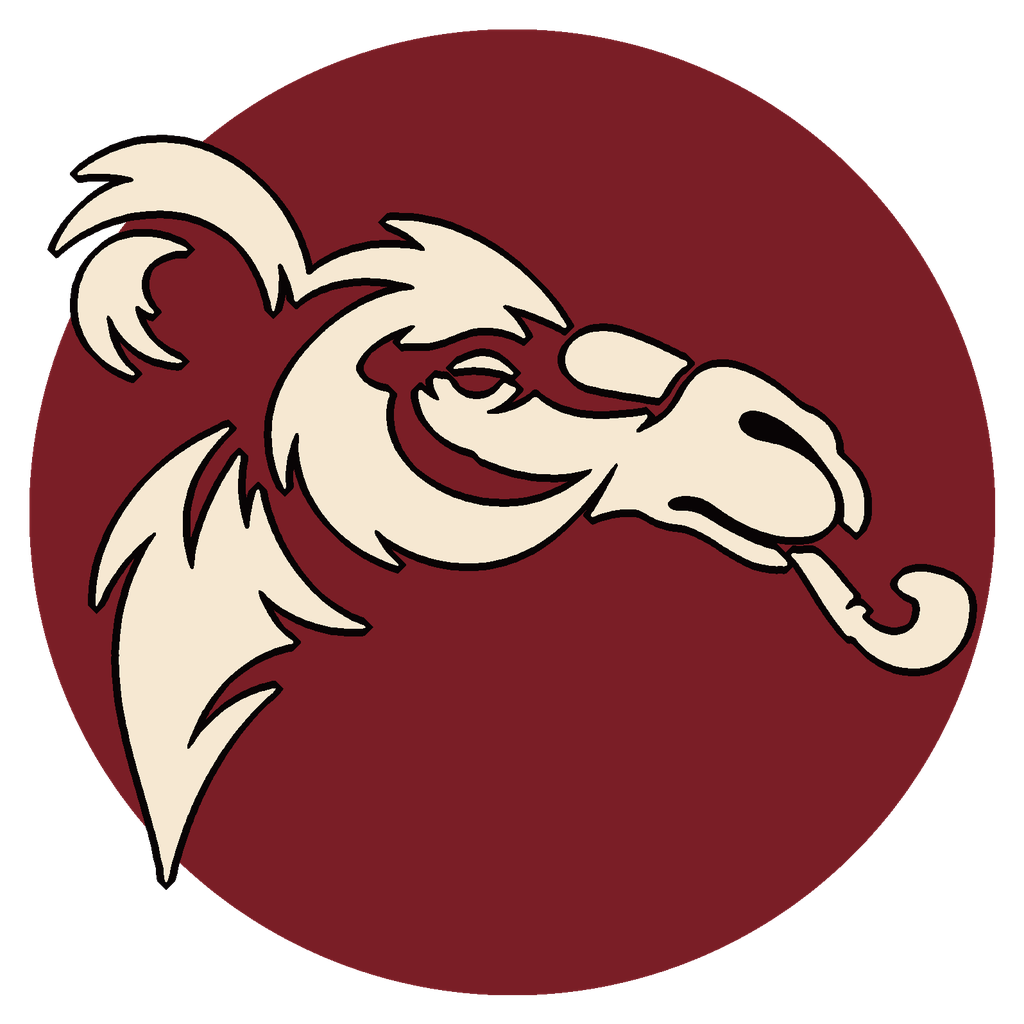
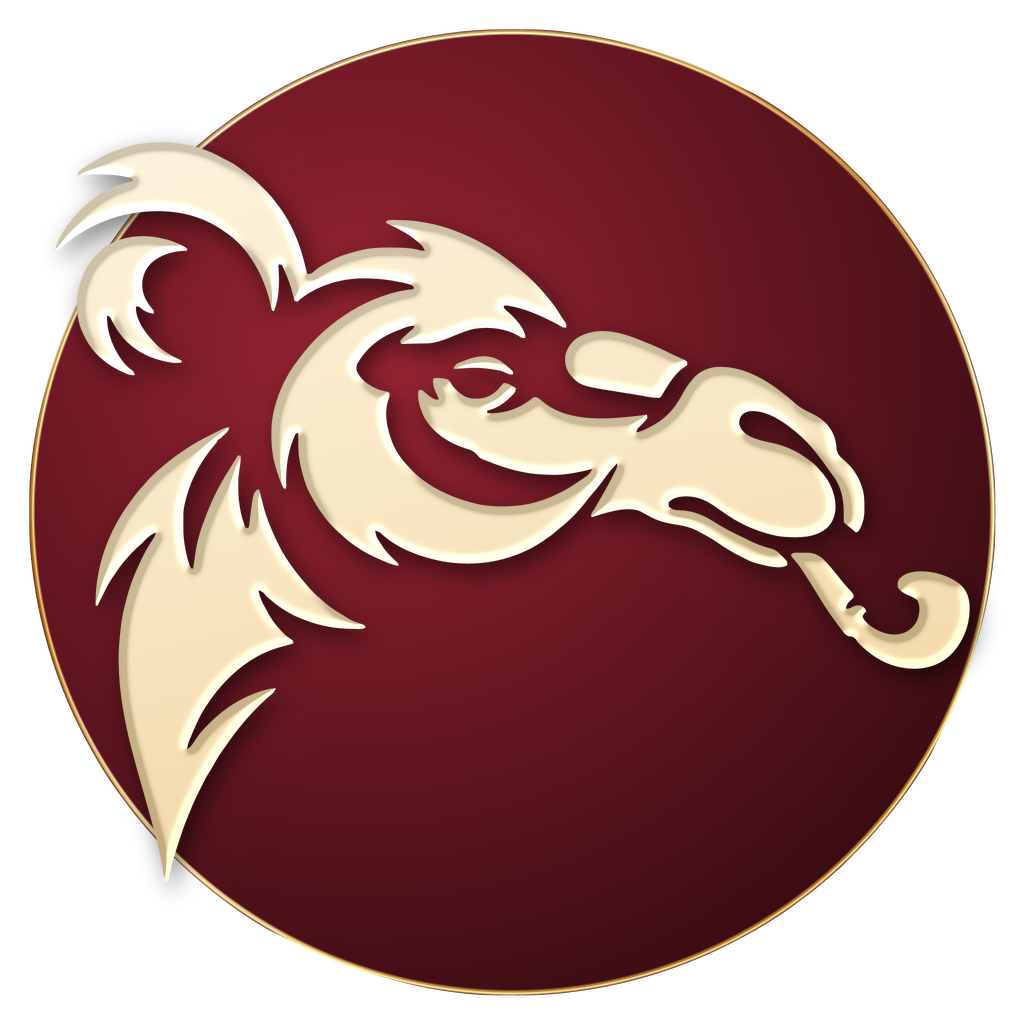
Новый логотип без контуров, аватарки и быстрая анкета персонала
Логотип, эмблема, favicon, аватарки бота и вебхуков и баннер собираются
из векторных слоёв в brand/build_brand.py: верблюд без чёрных контуров,
надпись в золотом металле. Картинки с версией, чтобы кэш не держал
старые.

Анкета персонала открывается без View Transition: снимок страницы
закрывал окно на время анимации.

diff --git a/public/index.html b/public/index.html
@@ -6,8 +6,8 @@
 <title>Mile High Club</title>
 <meta name="description" content="Отель Mile High Club в Лос-Сантосе: бронь номеров, бассейны, Le Ciel, сигарный клуб и журнал.">
 <meta name="theme-color" content="#0D0809">
-<link rel="icon" href="img/favicon.png">
-<link rel="apple-touch-icon" href="img/apple-touch-icon.png">
+<link rel="icon" href="img/favicon.png?v=2">
+<link rel="apple-touch-icon" href="img/apple-touch-icon.png?v=2">
 <link rel="preconnect" href="https://fonts.googleapis.com">
 <link rel="preconnect" href="https://fonts.gstatic.com" crossorigin>
 <link rel="stylesheet" href="https://fonts.googleapis.com/css2?family=Unbounded:wght@600;700;800&family=Onest:wght@400;600;700;800&family=Cormorant+Garamond:ital,wght@0,700;1,500;1,600&display=swap">
@@ -16,7 +16,7 @@
 </head>
 <body>
 <script>try{if(sessionStorage.getItem("mhc-seen")==="1")document.documentElement.classList.add("seen")}catch(e){}</script>
-<div class="loader" id="loader" aria-label="Загрузка"><i class="ld-door l"></i><i class="ld-door r"></i><div class="ld-in"><svg class="ld-dial" viewBox="-8 -12 216 124" aria-hidden="true"><defs><linearGradient id="ldb" x1="0" x2="1"><stop offset="0" stop-color="#8a6228"/><stop offset=".5" stop-color="#f9edc7"/><stop offset="1" stop-color="#8a6228"/></linearGradient></defs><path d="M14 104 A86 86 0 0 1 186 104" fill="none" stroke="url(#ldb)" stroke-width="2.4"/><line x1="24.8" y1="76.6" x2="34.2" y2="80.1" stroke="rgba(249,237,199,0.7)" stroke-width="1.6"/><text x="10.7" y="74.5" text-anchor="middle">1</text><line x1="26.7" y1="72.0" x2="31.3" y2="74.0" stroke="rgba(249,237,199,0.3)" stroke-width="1"/><line x1="28.8" y1="67.5" x2="33.3" y2="69.7" stroke="rgba(249,237,199,0.3)" stroke-width="1"/><line x1="31.3" y1="63.1" x2="35.6" y2="65.6" stroke="rgba(249,237,199,0.3)" stroke-width="1"/><line x1="34.0" y1="58.8" x2="38.1" y2="61.7" stroke="rgba(249,237,199,0.3)" stroke-width="1"/><line x1="36.9" y1="54.8" x2="40.9" y2="57.9" stroke="rgba(249,237,199,0.3)" stroke-width="1"/><line x1="40.1" y1="51.0" x2="43.9" y2="54.3" stroke="rgba(249,237,199,0.3)" stroke-width="1"/><line x1="43.6" y1="47.3" x2="47.1" y2="50.8" stroke="rgba(249,237,199,0.3)" stroke-width="1"/><line x1="47.2" y1="43.9" x2="50.5" y2="47.6" stroke="rgba(249,237,199,0.3)" stroke-width="1"/><line x1="51.1" y1="40.7" x2="57.2" y2="48.6" stroke="rgba(249,237,199,0.7)" stroke-width="1.6"/><text x="41.9" y="31.8" text-anchor="middle">10</text><line x1="55.1" y1="37.8" x2="57.9" y2="41.9" stroke="rgba(249,237,199,0.3)" stroke-width="1"/><line x1="59.4" y1="35.1" x2="61.9" y2="39.4" stroke="rgba(249,237,199,0.3)" stroke-width="1"/><line x1="63.8" y1="32.7" x2="66.0" y2="37.1" stroke="rgba(249,237,199,0.3)" stroke-width="1"/><line x1="68.3" y1="30.5" x2="70.3" y2="35.1" stroke="rgba(249,237,199,0.3)" stroke-width="1"/><line x1="73.0" y1="28.7" x2="74.7" y2="33.4" stroke="rgba(249,237,199,0.3)" stroke-width="1"/><line x1="77.7" y1="27.2" x2="79.1" y2="32.0" stroke="rgba(249,237,199,0.3)" stroke-width="1"/><line x1="82.6" y1="25.9" x2="83.7" y2="30.8" stroke="rgba(249,237,199,0.3)" stroke-width="1"/><line x1="87.5" y1="25.0" x2="88.3" y2="29.9" stroke="rgba(249,237,199,0.3)" stroke-width="1"/><line x1="92.5" y1="24.4" x2="93.0" y2="29.3" stroke="rgba(249,237,199,0.3)" stroke-width="1"/><line x1="97.5" y1="24.0" x2="97.8" y2="34.0" stroke="rgba(249,237,199,0.7)" stroke-width="1.6"/><text x="97.0" y="12.0" text-anchor="middle">20</text><line x1="102.5" y1="24.0" x2="102.3" y2="29.0" stroke="rgba(249,237,199,0.3)" stroke-width="1"/><line x1="107.5" y1="24.4" x2="107.0" y2="29.3" stroke="rgba(249,237,199,0.3)" stroke-width="1"/><line x1="112.5" y1="25.0" x2="111.7" y2="29.9" stroke="rgba(249,237,199,0.3)" stroke-width="1"/><line x1="117.4" y1="25.9" x2="116.3" y2="30.8" stroke="rgba(249,237,199,0.3)" stroke-width="1"/><line x1="122.3" y1="27.2" x2="120.9" y2="32.0" stroke="rgba(249,237,199,0.3)" stroke-width="1"/><line x1="127.0" y1="28.7" x2="125.3" y2="33.4" stroke="rgba(249,237,199,0.3)" stroke-width="1"/><line x1="131.7" y1="30.5" x2="129.7" y2="35.1" stroke="rgba(249,237,199,0.3)" stroke-width="1"/><line x1="136.2" y1="32.7" x2="134.0" y2="37.1" stroke="rgba(249,237,199,0.3)" stroke-width="1"/><line x1="140.6" y1="35.1" x2="138.1" y2="39.4" stroke="rgba(249,237,199,0.3)" stroke-width="1"/><line x1="144.9" y1="37.8" x2="139.2" y2="46.0" stroke="rgba(249,237,199,0.7)" stroke-width="1.6"/><text x="153.3" y="28.3" text-anchor="middle">30</text><line x1="148.9" y1="40.7" x2="145.9" y2="44.7" stroke="rgba(249,237,199,0.3)" stroke-width="1"/><line x1="152.8" y1="43.9" x2="149.5" y2="47.6" stroke="rgba(249,237,199,0.3)" stroke-width="1"/><line x1="156.4" y1="47.3" x2="152.9" y2="50.8" stroke="rgba(249,237,199,0.3)" stroke-width="1"/><line x1="159.9" y1="51.0" x2="156.1" y2="54.3" stroke="rgba(249,237,199,0.3)" stroke-width="1"/><line x1="163.1" y1="54.8" x2="159.1" y2="57.9" stroke="rgba(249,237,199,0.3)" stroke-width="1"/><line x1="166.0" y1="58.8" x2="161.9" y2="61.7" stroke="rgba(249,237,199,0.3)" stroke-width="1"/><line x1="168.7" y1="63.1" x2="164.4" y2="65.6" stroke="rgba(249,237,199,0.3)" stroke-width="1"/><line x1="171.2" y1="67.5" x2="166.7" y2="69.7" stroke="rgba(249,237,199,0.3)" stroke-width="1"/><line x1="173.3" y1="72.0" x2="168.7" y2="74.0" stroke="rgba(249,237,199,0.3)" stroke-width="1"/><line x1="175.2" y1="76.6" x2="165.8" y2="80.1" stroke="rgba(249,237,199,0.7)" stroke-width="1.6"/><text x="189.3" y="74.5" text-anchor="middle">40</text><g class="ld-needle" id="ldNeedle"><path d="M100 104 L98 30 L100 18 L102 30 Z" fill="url(#ldb)"/><circle cx="100" cy="104" r="7.5" fill="url(#ldb)"/><circle cx="100" cy="104" r="2.6" fill="#0d0809"/></g></svg><img class="ld-logo" src="img/logo.webp" alt="" width="160" height="160"><div class="ld-cap"><span>Лифт поднимается</span><b class="num" id="ldPct">1</b><span>этаж</span></div></div></div>
+<div class="loader" id="loader" aria-label="Загрузка"><i class="ld-door l"></i><i class="ld-door r"></i><div class="ld-in"><svg class="ld-dial" viewBox="-8 -12 216 124" aria-hidden="true"><defs><linearGradient id="ldb" x1="0" x2="1"><stop offset="0" stop-color="#8a6228"/><stop offset=".5" stop-color="#f9edc7"/><stop offset="1" stop-color="#8a6228"/></linearGradient></defs><path d="M14 104 A86 86 0 0 1 186 104" fill="none" stroke="url(#ldb)" stroke-width="2.4"/><line x1="24.8" y1="76.6" x2="34.2" y2="80.1" stroke="rgba(249,237,199,0.7)" stroke-width="1.6"/><text x="10.7" y="74.5" text-anchor="middle">1</text><line x1="26.7" y1="72.0" x2="31.3" y2="74.0" stroke="rgba(249,237,199,0.3)" stroke-width="1"/><line x1="28.8" y1="67.5" x2="33.3" y2="69.7" stroke="rgba(249,237,199,0.3)" stroke-width="1"/><line x1="31.3" y1="63.1" x2="35.6" y2="65.6" stroke="rgba(249,237,199,0.3)" stroke-width="1"/><line x1="34.0" y1="58.8" x2="38.1" y2="61.7" stroke="rgba(249,237,199,0.3)" stroke-width="1"/><line x1="36.9" y1="54.8" x2="40.9" y2="57.9" stroke="rgba(249,237,199,0.3)" stroke-width="1"/><line x1="40.1" y1="51.0" x2="43.9" y2="54.3" stroke="rgba(249,237,199,0.3)" stroke-width="1"/><line x1="43.6" y1="47.3" x2="47.1" y2="50.8" stroke="rgba(249,237,199,0.3)" stroke-width="1"/><line x1="47.2" y1="43.9" x2="50.5" y2="47.6" stroke="rgba(249,237,199,0.3)" stroke-width="1"/><line x1="51.1" y1="40.7" x2="57.2" y2="48.6" stroke="rgba(249,237,199,0.7)" stroke-width="1.6"/><text x="41.9" y="31.8" text-anchor="middle">10</text><line x1="55.1" y1="37.8" x2="57.9" y2="41.9" stroke="rgba(249,237,199,0.3)" stroke-width="1"/><line x1="59.4" y1="35.1" x2="61.9" y2="39.4" stroke="rgba(249,237,199,0.3)" stroke-width="1"/><line x1="63.8" y1="32.7" x2="66.0" y2="37.1" stroke="rgba(249,237,199,0.3)" stroke-width="1"/><line x1="68.3" y1="30.5" x2="70.3" y2="35.1" stroke="rgba(249,237,199,0.3)" stroke-width="1"/><line x1="73.0" y1="28.7" x2="74.7" y2="33.4" stroke="rgba(249,237,199,0.3)" stroke-width="1"/><line x1="77.7" y1="27.2" x2="79.1" y2="32.0" stroke="rgba(249,237,199,0.3)" stroke-width="1"/><line x1="82.6" y1="25.9" x2="83.7" y2="30.8" stroke="rgba(249,237,199,0.3)" stroke-width="1"/><line x1="87.5" y1="25.0" x2="88.3" y2="29.9" stroke="rgba(249,237,199,0.3)" stroke-width="1"/><line x1="92.5" y1="24.4" x2="93.0" y2="29.3" stroke="rgba(249,237,199,0.3)" stroke-width="1"/><line x1="97.5" y1="24.0" x2="97.8" y2="34.0" stroke="rgba(249,237,199,0.7)" stroke-width="1.6"/><text x="97.0" y="12.0" text-anchor="middle">20</text><line x1="102.5" y1="24.0" x2="102.3" y2="29.0" stroke="rgba(249,237,199,0.3)" stroke-width="1"/><line x1="107.5" y1="24.4" x2="107.0" y2="29.3" stroke="rgba(249,237,199,0.3)" stroke-width="1"/><line x1="112.5" y1="25.0" x2="111.7" y2="29.9" stroke="rgba(249,237,199,0.3)" stroke-width="1"/><line x1="117.4" y1="25.9" x2="116.3" y2="30.8" stroke="rgba(249,237,199,0.3)" stroke-width="1"/><line x1="122.3" y1="27.2" x2="120.9" y2="32.0" stroke="rgba(249,237,199,0.3)" stroke-width="1"/><line x1="127.0" y1="28.7" x2="125.3" y2="33.4" stroke="rgba(249,237,199,0.3)" stroke-width="1"/><line x1="131.7" y1="30.5" x2="129.7" y2="35.1" stroke="rgba(249,237,199,0.3)" stroke-width="1"/><line x1="136.2" y1="32.7" x2="134.0" y2="37.1" stroke="rgba(249,237,199,0.3)" stroke-width="1"/><line x1="140.6" y1="35.1" x2="138.1" y2="39.4" stroke="rgba(249,237,199,0.3)" stroke-width="1"/><line x1="144.9" y1="37.8" x2="139.2" y2="46.0" stroke="rgba(249,237,199,0.7)" stroke-width="1.6"/><text x="153.3" y="28.3" text-anchor="middle">30</text><line x1="148.9" y1="40.7" x2="145.9" y2="44.7" stroke="rgba(249,237,199,0.3)" stroke-width="1"/><line x1="152.8" y1="43.9" x2="149.5" y2="47.6" stroke="rgba(249,237,199,0.3)" stroke-width="1"/><line x1="156.4" y1="47.3" x2="152.9" y2="50.8" stroke="rgba(249,237,199,0.3)" stroke-width="1"/><line x1="159.9" y1="51.0" x2="156.1" y2="54.3" stroke="rgba(249,237,199,0.3)" stroke-width="1"/><line x1="163.1" y1="54.8" x2="159.1" y2="57.9" stroke="rgba(249,237,199,0.3)" stroke-width="1"/><line x1="166.0" y1="58.8" x2="161.9" y2="61.7" stroke="rgba(249,237,199,0.3)" stroke-width="1"/><line x1="168.7" y1="63.1" x2="164.4" y2="65.6" stroke="rgba(249,237,199,0.3)" stroke-width="1"/><line x1="171.2" y1="67.5" x2="166.7" y2="69.7" stroke="rgba(249,237,199,0.3)" stroke-width="1"/><line x1="173.3" y1="72.0" x2="168.7" y2="74.0" stroke="rgba(249,237,199,0.3)" stroke-width="1"/><line x1="175.2" y1="76.6" x2="165.8" y2="80.1" stroke="rgba(249,237,199,0.7)" stroke-width="1.6"/><text x="189.3" y="74.5" text-anchor="middle">40</text><g class="ld-needle" id="ldNeedle"><path d="M100 104 L98 30 L100 18 L102 30 Z" fill="url(#ldb)"/><circle cx="100" cy="104" r="7.5" fill="url(#ldb)"/><circle cx="100" cy="104" r="2.6" fill="#0d0809"/></g></svg><img class="ld-logo" src="img/logo.webp?v=2" alt="" width="160" height="160"><div class="ld-cap"><span>Лифт поднимается</span><b class="num" id="ldPct">1</b><span>этаж</span></div></div></div>
 <div class="scrollbar" id="scrollbar"></div>
 <div id="app"></div>
 <div id="toasts" class="toasts" aria-live="polite"></div>

diff --git a/public/js/main.js b/public/js/main.js
@@ -16,7 +16,7 @@ function shell() {
   $('#app').innerHTML = `
   <canvas class="wxbg" id="wxBg" aria-hidden="true"></canvas>
   <header class="nav"><div class="garland" aria-hidden="true">${Array.from({ length: 34 }, (_, i) => `<i style="--i:${i}"></i>`).join('')}</div><div class="wrap">
-    <a class="brand" href="#home" aria-label="На главную"><img src="img/emblem.webp" alt="" width="42" height="42"><b>MILE HIGH<br>CLUB</b></a>
+    <a class="brand" href="#home" aria-label="На главную"><img src="img/emblem.webp?v=2" alt="" width="42" height="42"><b>MILE HIGH<br>CLUB</b></a>
     <nav class="links" aria-label="Разделы">${ROUTES.map(([id, n]) => `<a href="#${id}" data-r="${id}"><span class="rl"><span data-t="${n}">${n}</span></span></a>`).join('')}</nav>
     <div class="navr">
       <span class="pill wxp" id="wxChip" title="Погода и время над отелем (Москва)"></span>
@@ -184,7 +184,7 @@ function renderHome() {
   const heroHtml = `
   <section class="dive" id="dive"><div class="stick">
     <div class="bg" style="background-image:url('${esc(m === 'day' ? s.heroDay : s.heroNight)}')"></div><canvas id="heroGl" aria-hidden="true"></canvas><canvas class="wxc" id="heroWx" aria-hidden="true"></canvas>
-    <div class="wrap dv dv1" id="dv1"><img class="logo" id="heroLogo" src="img/logo.webp" alt="${esc(s.hotelName)}" width="300" height="300">
+    <div class="wrap dv dv1" id="dv1"><img class="logo" id="heroLogo" src="img/logo.webp?v=2" alt="${esc(s.hotelName)}" width="300" height="300">
       <h1>${nowrapHyphens(esc(s.tagline || 'Отель над Лос-Сантосом'))}. <span class="serif">${m === 'day' ? 'Бассейн, диджей и обед на высоте.' : 'Ночь только начинается.'}</span></h1>
       <div class="row"><a class="btn" href="#stay">Забронировать номер</a><a class="btn ghost" href="#leisure">Что сейчас открыто</a></div></div>
     <div class="wrap dv dv2" id="dv2"><span class="eyebrow">Вы в атриуме</span><h2>Сорок этажей стекла, латуни и неона</h2><p>Лифт поднимет в номера с 20 этажа, бассейны ждут на 38 и 40, Le Ciel на 30.</p><div class="row"><a class="btn" href="#stay">Выбрать номер</a><a class="btn ghost" href="#cigars">Сигарный клуб</a></div></div>
@@ -388,7 +388,7 @@ function paintCompare() {
 }
 function keyCard(r, t) {
   return `<div class="kc" id="keyCard" tabindex="0" role="button" aria-label="Ключ-карта номера ${esc(r.id)}, нажмите, чтобы перевернуть"><div class="kci">
-    <div class="kf"><img src="img/emblem.webp" alt=""><span class="kn num">${esc(r.id)}</span><span class="kt">${esc(t?.name || 'Номер')} · ${r.floor} этаж</span><span class="kl">MILE HIGH CLUB · ROOM KEY</span><i class="chip2"></i></div>
+    <div class="kf"><img src="img/emblem.webp?v=2" alt=""><span class="kn num">${esc(r.id)}</span><span class="kt">${esc(t?.name || 'Номер')} · ${r.floor} этаж</span><span class="kl">MILE HIGH CLUB · ROOM KEY</span><i class="chip2"></i></div>
     <div class="kb"><i class="stripe"></i><span>Заезд с 14:00 · Выезд до 12:00</span><span>Приложите к замку двери ${esc(r.id)}</span><small>При потере обратитесь на ресепшен, 20 этаж</small></div></div></div>`;
 }
 function wireKeyCard() {
@@ -703,16 +703,8 @@ function paintTeam() {
   $$('#teamV [data-t]').forEach(b => b.onclick = () => openMember(all.find(t => t.id === b.dataset.t)));
 }
 const seenTeam = new Set();
-// фото с карточки «перетекает» в окно анкеты (View Transitions); без поддержки — обычное открытие
+// Анкета открывается сразу. View Transition здесь держал снимок страницы поверх окна на всё время анимации.
 function openMember(t) {
-  const card = t && $(`#teamV .tcard[data-t="${CSS.escape(t.id)}"] .tph`);
-  if (!VT || !card || matchMedia('(prefers-reduced-motion: reduce)').matches) return openMemberNow(t);
-  card.style.viewTransitionName = 'member-photo';
-  const vt = document.startViewTransition(() => { card.style.viewTransitionName = ''; openMemberNow(t); const ph = $('.modal .member .tph'); if (ph) ph.style.viewTransitionName = 'member-photo'; });
-  vt.ready.catch(() => {}); vt.updateCallbackDone.catch(e => console.error(e));
-  vt.finished.finally(() => { card.style.viewTransitionName = ''; const ph = $('.modal .member .tph'); if (ph) ph.style.viewTransitionName = ''; });
-}
-function openMemberNow(t) {
   if (!t) return; seenTeam.add(t.id); if ((S.pub.team || []).length > 1 && S.pub.team.every(x => seenTeam.has(x.id))) setTimeout(() => unlock('team'), 600); const d = S.pub.depts.find(x => x.id === t.dept);
   modal(`<div class="member" style="--ac:${esc(d?.accent || '#F7B50A')}"><div class="tph ${t.photo ? '' : 'none'}" ${t.photo ? `style="background-image:url('${esc(t.photo)}')"` : ''}>${t.photo ? '' : `<b>${esc(initials(t.name))}</b>`}</div>
     <div class="stack"><div><span class="eyebrow">${esc(d?.name || 'Mile High Club')}</span><h3>${esc(t.name)}</h3><p class="mut">${esc(t.position || '')}</p></div>
@@ -822,7 +814,7 @@ function renderMe() {
 }
 export async function openLogin(next = 'admin') {
   authCfg = await authConfig();
-  modal(`<div class="stack" style="justify-items:center;text-align:center"><img src="img/logo.webp" alt="" width="90" height="90"><h3>Вход</h3><p class="mut">Персонал входит через Discord. Если у вас роль администратора или модератора на нашем сервере, откроется панель.</p>
+  modal(`<div class="stack" style="justify-items:center;text-align:center"><img src="img/logo.webp?v=2" alt="" width="90" height="90"><h3>Вход</h3><p class="mut">Персонал входит через Discord. Если у вас роль администратора или модератора на нашем сервере, откроется панель.</p>
     ${authCfg.oauth ? `<button class="btn discord" data-close="discord">${I.discord} Войти через Discord</button>` : ''}
     ${authCfg.demo ? `<div class="stack" style="width:100%"><span class="lbl">${authCfg.oauth ? 'Или демо-вход' : 'Демо-вход'}</span><div class="row" style="justify-content:center"><button class="btn sm" data-close="admin">Администратор</button><button class="btn sm ghost" data-close="mod">Модератор</button><button class="btn sm ghost" data-close="guest">Гость</button></div>${!authCfg.oauth ? '<p class="note">Вход через Discord включится, когда на сервере будут указаны ключи Discord-приложения.</p>' : ''}</div>` : ''}
     ${!authCfg.oauth && !authCfg.demo ? '<p class="note">Вход через Discord ещё не настроен на сервере.</p>' : ''}<button class="btn ghost sm" data-close="">Отмена</button></div>`).then(r => { if (!r) return; login(r === 'discord' ? 'admin' : r, next); });
@@ -832,7 +824,7 @@ export async function openLogin(next = 'admin') {
 function renderAdmin() {
   const v = view('admin');
   if (!S.me || S.me.role === 'guest') {
-    v.innerHTML = `<div class="gate"><img src="img/logo.webp" alt="" width="110" height="110"><h2 style="font-size:1.8rem">Вход для персонала</h2><p class="mut">${S.me ? `Вы вошли как ${esc(S.me.username)}, но у вас нет роли администратора или модератора на Discord-сервере отеля.` : 'Войдите через Discord. Доступ дают роли администратора и модератора на нашем сервере.'}</p><div class="row" style="justify-content:center">${S.me ? `<button class="btn ghost" id="gOut">${I.out} Выйти</button>` : ''}<button class="btn discord" id="gIn">${I.discord} Войти через Discord</button></div></div>`;
+    v.innerHTML = `<div class="gate"><img src="img/logo.webp?v=2" alt="" width="110" height="110"><h2 style="font-size:1.8rem">Вход для персонала</h2><p class="mut">${S.me ? `Вы вошли как ${esc(S.me.username)}, но у вас нет роли администратора или модератора на Discord-сервере отеля.` : 'Войдите через Discord. Доступ дают роли администратора и модератора на нашем сервере.'}</p><div class="row" style="justify-content:center">${S.me ? `<button class="btn ghost" id="gOut">${I.out} Выйти</button>` : ''}<button class="btn discord" id="gIn">${I.discord} Войти через Discord</button></div></div>`;
     $('#gIn').onclick = () => openLogin('admin'); $('#gOut') && ($('#gOut').onclick = () => logout()); return;
   }
   import('./admin.js').then(m => { mods.admin = m; m.mountAdmin(v, { reloadPublic: loadPublic, logout, openLogin }); }).catch(e => { console.error(e); v.innerHTML = '<div class="gate">Панель не загрузилась. Обновите страницу.</div>'; });
@@ -877,7 +869,7 @@ async function boot() {
     try { await Promise.all([loadPublic(), loadMe()]); } catch (e) { failed = e; return; }
     set(45);
     const s = S.pub.settings, m = mode(), hero = m === 'day' ? s.heroDay : s.heroNight;
-    let done = 0; const jobs = [document.fonts?.ready, preload('img/logo.webp'), preload(hero), heroLayers(hero)].map(p => Promise.resolve(p).catch(() => {}).then(() => set(45 + (++done / 4) * 50)));
+    let done = 0; const jobs = [document.fonts?.ready, preload('img/logo.webp?v=2'), preload(hero), heroLayers(hero)].map(p => Promise.resolve(p).catch(() => {}).then(() => set(45 + (++done / 4) * 50)));
     // 3D-модуль грузится параллельно и заставку не держит: атриум показывается картинкой и оживает, когда WebGL готов
     if (hasWebGL()) ((location.hash || '#home') === '#home' ? import('./hero3d.js') : import('three')).catch(() => {});
     await Promise.all(jobs);

diff --git a/public/css/app.css b/public/css/app.css
@@ -156,8 +156,8 @@ main{view-transition-name:floor}
 :root.vt-route::view-transition-new(floor){animation:floor-in var(--d-floor) var(--ease-in-out) both}
 :root:not(.vt-route)::view-transition-old(floor),:root:not(.vt-route)::view-transition-new(floor){animation:none}
 /* общий элемент: обложка журнала, фото сотрудника */
-::view-transition-group(issue-cover),::view-transition-group(member-photo){animation-duration:var(--d-panel);animation-timing-function:var(--ease-out)}
-::view-transition-old(issue-cover),::view-transition-new(issue-cover),::view-transition-old(member-photo),::view-transition-new(member-photo){height:100%;object-fit:cover}
+::view-transition-group(issue-cover){animation-duration:var(--d-panel);animation-timing-function:var(--ease-out)}
+::view-transition-old(issue-cover),::view-transition-new(issue-cover){height:100%;object-fit:cover}
 @keyframes floor-out{to{opacity:0;transform:translateY(var(--vt-out,14vh));filter:brightness(.4)}}
 @keyframes floor-in{from{opacity:0;transform:translateY(var(--vt-in,-14vh));filter:brightness(.4)}}
 :root[data-dir="down"]{--vt-out:-14vh;--vt-in:14vh}

diff --git a/brand/build_brand.py b/brand/build_brand.py
@@ -1,0 +1,166 @@
+#!/usr/bin/env python3
+"""Логотип и аватарки Mile High Club из векторных слоёв.
+
+Запуск из корня проекта:  python brand/build_brand.py
+Вход: brand/masks/{disc,camel,word}.png (слои emblem.svg и mhc-wordmark.svg, белое на прозрачном).
+Нужны: pillow, numpy, scipy.
+
+Верблюд без чёрных контуров: внутренние линии это просветы, через которые видно диск.
+"""
+from pathlib import Path
+
+import numpy as np
+from PIL import Image
+from scipy import ndimage as ndi
+
+ROOT = Path(__file__).resolve().parent.parent
+MASKS, BRAND, IMG = ROOT / 'brand' / 'masks', ROOT / 'brand', ROOT / 'public' / 'img'
+GOLD = ['#FFF3CF', '#F3D28C', '#C8953F', '#FBE3A6', '#E2B765', '#A87A32']
+CAMEL = ['#FFF8E7', '#F8E6C2', '#EBC98D']
+# цвет диска: светлая часть и тёмный край
+PERSONAS = {'concierge': ('#C98A1E', '#3A2404'), 'reception': ('#D3166C', '#3F0620'), 'manager': ('#D94E14', '#3E1404'), 'journal': ('#B9925A', '#30230F'),
+            'ciel': ('#A32A3A', '#2E0A10'), 'hot': ('#F0177A', '#42062A'), 'pools': ('#1E9C96', '#062C2C'), 'cigar': ('#7A4D2A', '#22130A'), 'security': ('#31507F', '#0C1626')}
+WINE = ('#9A2433', '#2A080D')
+
+
+def rgb(h): return np.array([int(h[i:i + 2], 16) for i in (1, 3, 5)], dtype=np.float32)
+
+
+def mask(name, size):
+    m = Image.open(MASKS / f'{name}.png').convert('RGBA').getchannel('A')
+    return np.asarray(m.resize((size, size), Image.LANCZOS), dtype=np.float32) / 255
+
+
+def ramp(t, stops):
+    """Значение 0..1 в цвет по равномерным опорным точкам."""
+    cols = np.stack([rgb(c) for c in stops]); x = np.clip(t, 0, 1) * (len(stops) - 1)
+    i = np.minimum(x.astype(int), len(stops) - 2); f = (x - i)[..., None]
+    return cols[i] * (1 - f) + cols[i + 1] * f
+
+
+def grid(n):
+    y, x = np.mgrid[0:n, 0:n].astype(np.float32) / (n - 1)
+    return x, y
+
+
+def over(dst, color, alpha):
+    a = alpha[..., None]
+    out_a = a + dst[..., 3:] * (1 - a)
+    rgb_ = (color * a + dst[..., :3] * dst[..., 3:] * (1 - a)) / np.maximum(out_a, 1e-4)
+    return np.concatenate([rgb_, out_a], -1)
+
+
+def relief(a, n):
+    """Мягкий свет сверху слева по краям формы: убирает плоскость."""
+    h = ndi.gaussian_filter(a, n / 260)
+    gy, gx = np.gradient(h)
+    return np.clip(-(gx + gy) * n / 16, -1, 1)
+
+
+def metal(a, n, stops, angle=.35):
+    x, y = grid(n)
+    base = ramp((x * angle + y * (1 - angle)), stops)
+    return np.clip(base + relief(a, n)[..., None] * 46, 0, 255)
+
+
+def camel_on(canvas, n, camel):
+    shadow = ndi.gaussian_filter(np.roll(camel, (n // 110, n // 170), (0, 1)), n / 90) * .55
+    canvas = over(canvas, np.zeros(3, np.float32), shadow)
+    return over(canvas, metal(camel, n, CAMEL, .2), camel)
+
+
+def medallion(n, colors=WINE):
+    """Диск с золотым кантом и верблюдом на прозрачном фоне."""
+    disc, camel = mask('disc', n), mask('camel', n)
+    ys, xs = np.nonzero(disc > .5); cx, cy, r = xs.mean(), ys.mean(), (xs.max() - xs.min()) / 2
+    y, x = np.mgrid[0:n, 0:n].astype(np.float32)
+    d = np.hypot(x - (cx - r * .3), y - (cy - r * .35)) / (r * 1.75)
+    canvas = np.zeros((n, n, 4), np.float32)
+    canvas = over(canvas, ramp(d, [colors[0], colors[1]]), disc)
+    edge = np.hypot(x - cx, y - cy)
+    rim = np.clip((edge - (r - n / 190)) / 2, 0, 1) * np.clip((r + 1 - edge) / 2, 0, 1)
+    canvas = over(canvas, metal(rim, n, GOLD), rim)
+    return camel_on(canvas, n, camel)
+
+
+def avatar(n, colors):
+    """Круглая аватарка: фон во весь квадрат, Discord сам обрежет его кругом."""
+    camel = fit(mask('camel', n), n, .74)
+    x, y = grid(n)
+    d = np.hypot(x - .38, y - .3) / .95
+    canvas = np.concatenate([ramp(d, [colors[0], colors[1]]), np.ones((n, n, 1), np.float32)], -1)
+    edge = np.hypot(x - .5, y - .5)
+    ring = np.clip((edge - .463) * n / 2.5, 0, 1) * np.clip((.477 - edge) * n / 2.5, 0, 1)
+    canvas = over(canvas, metal(ring, n, GOLD), ring)
+    return camel_on(canvas, n, camel)
+
+
+def fit(a, n, share):
+    """Вписывает форму в центр кадра, занимая долю стороны."""
+    ys, xs = np.nonzero(a > .05); box = a[ys.min():ys.max() + 1, xs.min():xs.max() + 1]
+    k = n * share / max(box.shape)
+    im = Image.fromarray((box * 255).astype('uint8')).resize((int(box.shape[1] * k), int(box.shape[0] * k)), Image.LANCZOS)
+    out = Image.new('L', (n, n)); out.paste(im, ((n - im.width) // 2, (n - im.height) // 2))
+    return np.asarray(out, dtype=np.float32) / 255
+
+
+def to_img(a): return Image.fromarray(np.clip(np.dstack([a[..., :3], a[..., 3] * 255]), 0, 255).astype('uint8'), 'RGBA')
+
+
+def crop_alpha(img):
+    return img.crop(img.getchannel('A').point(lambda v: 255 if v > 8 else 0).getbbox())
+
+
+def wordmark(n):
+    a = mask('word', n)
+    canvas = np.zeros((n, n, 4), np.float32)
+    glow = ndi.gaussian_filter(a, n / 70) * .35
+    canvas = over(canvas, rgb('#F7B50A') * np.ones((n, n, 1), np.float32), glow)
+    return crop_alpha(to_img(over(canvas, metal(a, n, GOLD), a)))
+
+
+def logo(side=1400):
+    """Главный логотип: медальон и надпись одной композицией на прозрачном фоне."""
+    med, word = crop_alpha(to_img(medallion(side))), wordmark(side * 2)
+    med.thumbnail((int(side * .5), int(side * .5)), Image.LANCZOS)
+    word.thumbnail((int(side * .92), int(side * .46)), Image.LANCZOS)
+    out = Image.new('RGBA', (side, side))
+    gap = int(side * .02); top = (side - med.height - word.height - gap) // 2
+    out.alpha_composite(med, ((side - med.width) // 2, top))
+    out.alpha_composite(word, ((side - word.width) // 2, top + med.height + gap))
+    return out
+
+
+def banner():
+    w, h = 1360, 480
+    x, y = np.meshgrid(np.linspace(0, 1, w), np.linspace(0, 1, h)); x, y = x.astype(np.float32), y.astype(np.float32)
+    base = ramp(np.clip(np.hypot((x - .5) * 1.3, (y - .35)), 0, 1), ['#5A1420', '#2A080D', '#0D0809'])
+    img = Image.fromarray(base.astype('uint8')).convert('RGBA')
+    med = crop_alpha(to_img(medallion(900))); med.thumbnail((400, 400), Image.LANCZOS)
+    word = wordmark(1400); word.thumbnail((640, 380), Image.LANCZOS)
+    left = (w - med.width - word.width - 70) // 2
+    img.alpha_composite(med, (left, (h - med.height) // 2))
+    img.alpha_composite(word, (left + med.width + 70, (h - word.height) // 2))
+    return img.convert('RGB')
+
+
+def main():
+    big = logo()
+    big.resize((800, 800), Image.LANCZOS).save(IMG / 'logo.webp', quality=92, method=6)
+    big.save(BRAND / 'logo-square.png', optimize=True)
+    med = to_img(medallion(1024))
+    med.save(BRAND / 'emblem.png', optimize=True)
+    med.resize((256, 256), Image.LANCZOS).save(IMG / 'emblem.webp', quality=92, method=6)
+    ava = to_img(avatar(1024, WINE)).convert('RGB')
+    ava.save(BRAND / 'emblem-dark.png', optimize=True)
+    ava.resize((180, 180), Image.LANCZOS).save(IMG / 'apple-touch-icon.png', optimize=True)
+    med.resize((64, 64), Image.LANCZOS).save(IMG / 'favicon.png', optimize=True)
+    (IMG / 'discord').mkdir(exist_ok=True)
+    for key, colors in PERSONAS.items():
+        to_img(avatar(512, colors)).convert('RGB').save(IMG / 'discord' / f'{key}.png', optimize=True)
+    banner().save(BRAND / 'bot-banner.png', optimize=True)
+    print('готово')
+
+
+if __name__ == '__main__':
+    main()

diff --git a/brand/README.md b/brand/README.md
@@ -6,6 +6,7 @@
 | `mhc-wordmark.svg` | Надпись без верблюда, вектор, квадрат 1000×1000, прозрачный фон. Цвет `#F6E8D2` |
 | `mhc-wordmark-512.gif` | Анимированная надпись, бесшовная петля 4 с, 512×512 |
 | `mhc-wordmark.png` | Статичный кадр анимации, 720×720 |
+| `build_brand.py` | Собирает логотип сайта, эмблему, favicon, аватарки бота и вебхуков и баннер из `masks/`. Заменяет вывод `build_logo.py` |
 | `wordmark-anim.html` | Сама анимация: открыть через любой статический сервер из папки `brand/` |
 
 Эффекты анимации:
